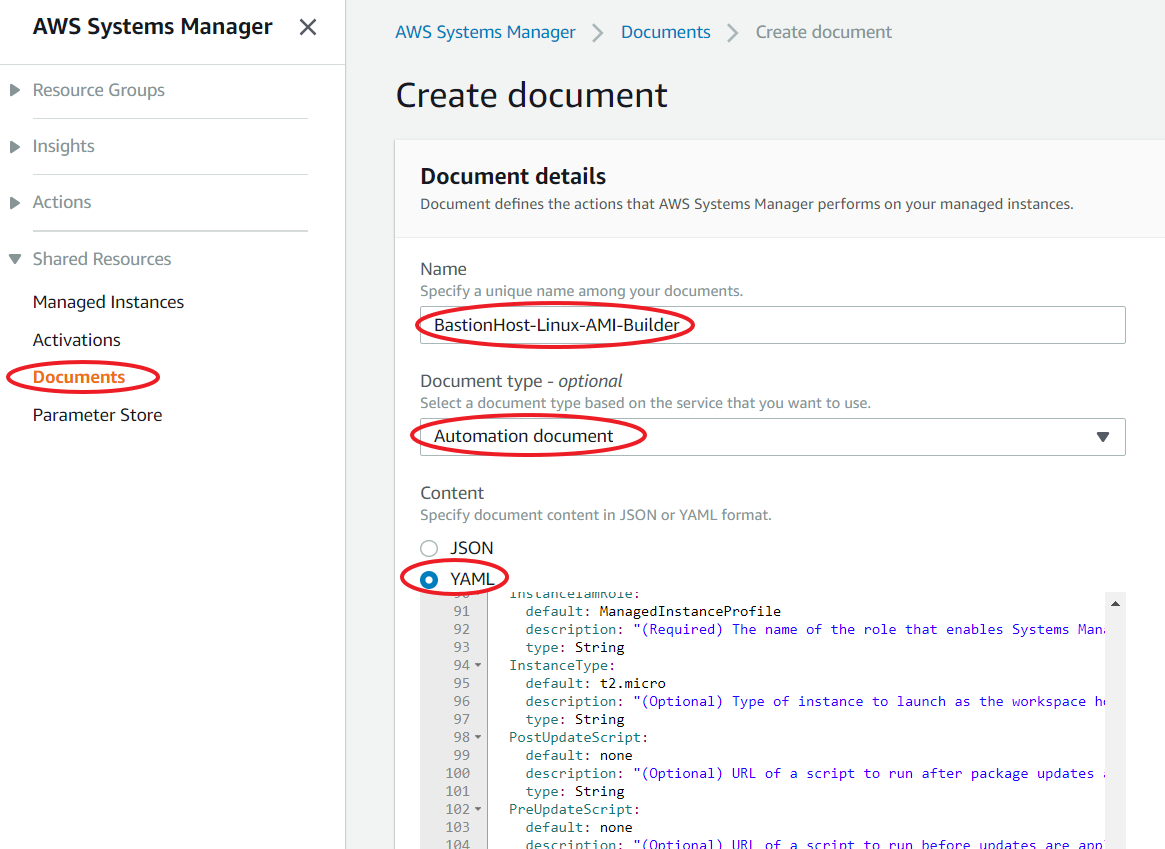
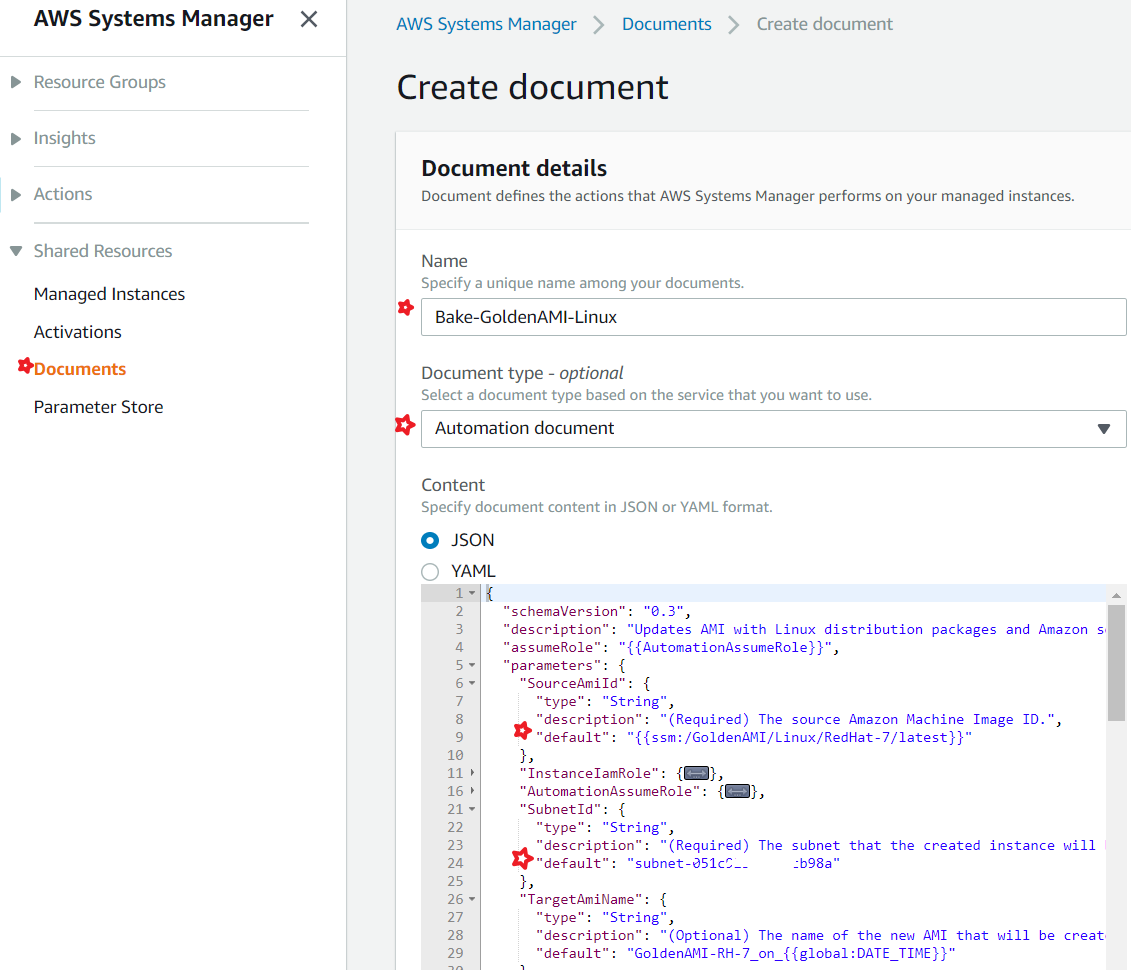
Adding new images and improvements to README

diff --git a/How-To/setup-ami-lifecycle-management-using-ssm/README.MD b/How-To/setup-ami-lifecycle-management-using-ssm/README.MD
@@ -1,8 +1,21 @@
 # AMI LifeCycle Management Using EC2 Systems Manager | Automation
-Automatically apply operating system (OS) patches to a Linux AMI that is already considered to be the most up-to-date or latest AMI. The default value of the parameter `SourceAmiId` is defined by a Systems Manager Parameter Store parameter called `BastionHost-Linux-AMI`. This value is updated by an AWS Lambda function invoked at the end of the Automation workflow.
+
+This walkthrough shows you how to create and run a custom Golden AMI Automation document.
+ - Launches an instance from a specified AMI from [SSM Parameter Store]() - _Default:_`/GoldenAMI/Linux/RedHat-7/latest`
+ - Executes a command using Run Command that applies Windows updates to the instance.
+ - Stops the instance.
+ - Creates a new AMI.
+ - Tag the AMI.
+ - Terminates the original instance.
+ - Update the parameter store using Lambda
+
 
 ## Pre-Requisites
 We will need two roles to automate the AMI LifeCycle Management.
+1. SSM Parameter Store:
+   - Parameter Name: `/GoldenAMI/Linux/RedHat-7/latest`
+   - Parameter Value: _Any linux based AMI of your choice_
+1. _Optional:_ An S3 bucket with `Post-Update-Scripts` with public access.
 1. RoleName: **lambda-ssm-role**: 
    - Permissions: Managed Policies `AWSLambdaExecute` and `AmazonSSMFullAccess`
 1. RoleName: **ManagedInstanceRole**: - An EC2 Role to allow SSM to start instances, create images etc,
@@ -46,9 +59,9 @@ If this role creation and attaching trust policies, that part alone can be done 
 
 
 ### Create Parameter for Golden AMI
-Use the AWS CLI or GUI to create a parameter store entry, here is the CLI command. `BastionHost-Linux-AMI` is the parameter name that we will use in our _Automation_ Document and lambda will use the same to update the AMI Upon completion of the AMI.
+Use the AWS CLI or GUI to create a parameter store entry, here is the CLI command. `/GoldenAMI/Linux/RedHat-7/latest` is the parameter name that we will use in our _Automation_ Document and lambda will use the same to update the AMI Upon completion of the AMI.
 ```sh
-aws ssm put-parameter --name BastionHost-Linux-AMI --value "ami-9a91b371" --type String
+aws ssm put-parameter --name /GoldenAMI/Linux/RedHat-7/latest --value "ami-c86c3f23" --type String
 ```
 
 ### Create [Lambda](https://docs.aws.amazon.com/systems-manager/latest/userguide/automation-simpatch.html#automation-pet1) to update SSM Parameter Store
@@ -67,10 +80,12 @@ _Modify as required for your environment_
 
 ### Create custom Automation Document
 
+**_Note:_** By default SSM Automation runs in the default VPC, If you are going to run in a different VPC, you **must** provide the subnet id, which has internet access.
+
 1. [Create Document](https://eu-central-1.console.aws.amazon.com/systems-manager/documents/create-document?region=eu-central-1), Give a **Name**, like "`BastionHost-Linux-AMI-Builder`.
 1. Add the contents of the `BastionHost-Linux-AMI-Builder.json` file in the field.![](https://raw.githubusercontent.com/miztiik/AWS-Demos/master/How-To/setup-ami-lifecycle-management-using-ssm/images/Create-Automation-Document-00.png)
 1. After succesful creation of the document, you should be able view,modify versions,![](https://raw.githubusercontent.com/miztiik/AWS-Demos/master/How-To/setup-ami-lifecycle-management-using-ssm/images/Create-Automation-Document-01.png)
-**_Note:_** By default SSM Automation runs in the default VPC, If you are going to run in a different VPC, you **must** provide the subnet id, which has internet access.
+
 
 ### Creation of AMI
 1. In the EC2 console, choose **Systems Manager Services,** **Automations**.![](https://media.amazonwebservices.com/blog/2017/EC2Sys-Console-1.png)
